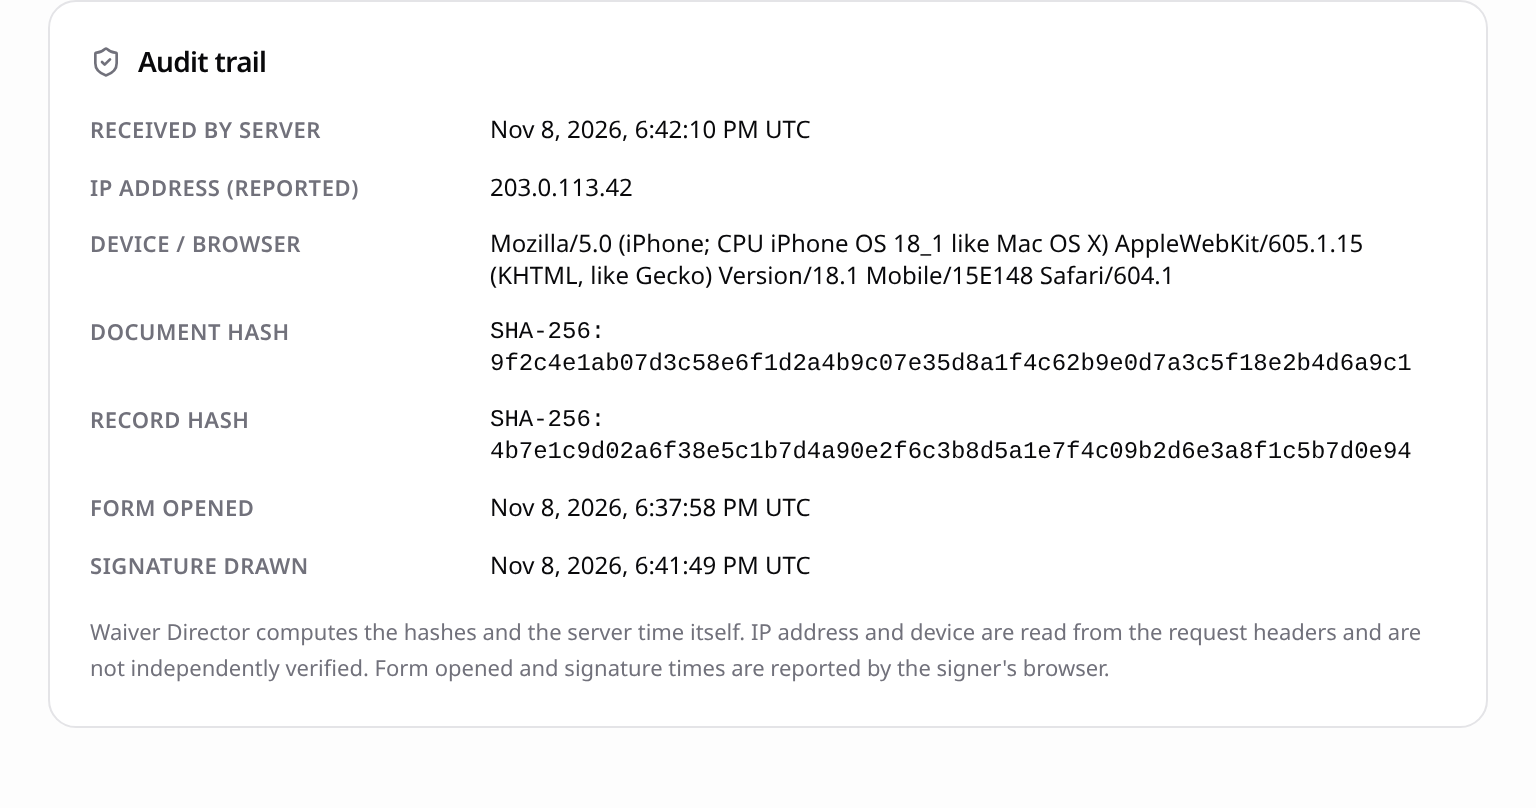
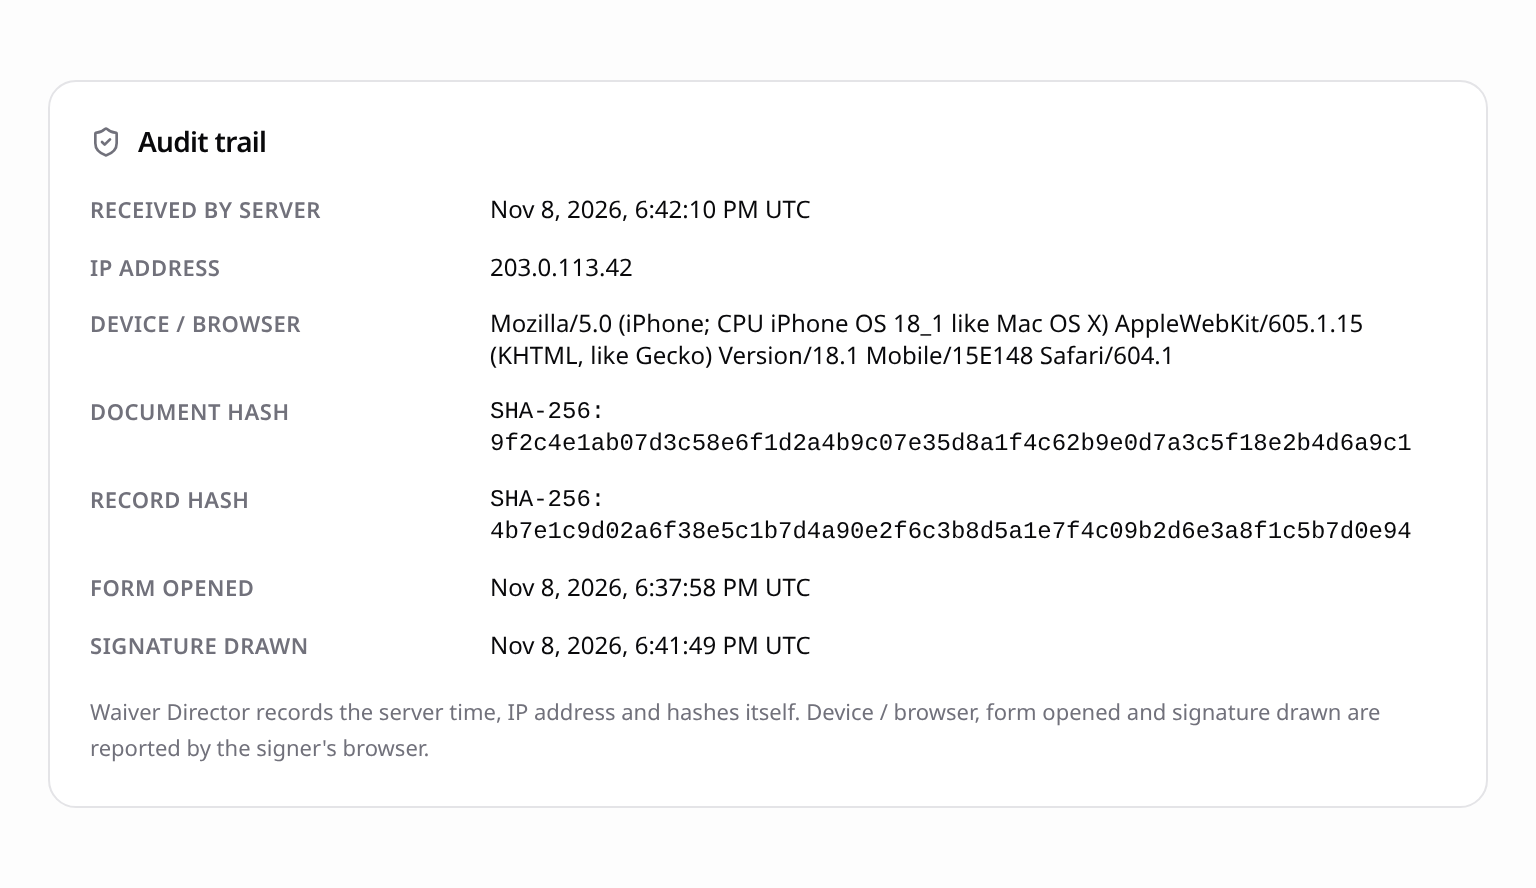
fix: show the IP address as server-recorded after spoof test
A request to the dev deployment with a spoofed X-Forwarded-For: 1.2.3.4
header was stored with the caller's real IP, so Convex's edge appends the
address it saw and the last hop cannot be faked by the signer. Drop the
'(reported)' label and update the panel note and docs.

Claude-Session: https://claude.ai/code/session_01NtaqKrbvdA3EqcTHo4cfhu

diff --git a/src/convex/lib/audit.ts b/src/convex/lib/audit.ts
@@ -99,13 +99,13 @@ export function normalizeForwardedFor(value: string | null | undefined): string 
 }
 
 /**
- * Best-effort client IP from request headers: the last `x-forwarded-for` hop,
- * which is the address appended by the nearest proxy. Earlier hops, and headers
- * such as `x-real-ip`, can be set by the client and are ignored.
+ * Client IP from the last `x-forwarded-for` hop, which Convex's HTTP edge
+ * appends with the address it saw. Earlier hops, and headers such as
+ * `x-real-ip`, can be set by the client and are ignored. The raw chain is
+ * stored separately.
  *
- * Convex does not document whether its HTTP edge sets or overwrites
- * `x-forwarded-for`, so this value is stored and shown as reported by request
- * headers, not as independently verified. The raw chain is stored separately.
+ * Verified on a dev deployment (2026-11-09): a request sent with a spoofed
+ * `X-Forwarded-For: 1.2.3.4` header was recorded with the caller's real IP.
  */
 export function clientIpFromHeaders(headers: { get(name: string): string | null }): string | null {
 	const forwardedFor = headers.get('x-forwarded-for');

diff --git a/src/lib/components/waivers/SubmissionAuditTrail.svelte b/src/lib/components/waivers/SubmissionAuditTrail.svelte
@@ -45,7 +45,7 @@
 				<dt class={rowLabelClass}>Received by server</dt>
 				<dd class={rowValueClass}>{formatTimestamp(audit.receivedAt)}</dd>
 
-				<dt class={rowLabelClass}>IP address (reported)</dt>
+				<dt class={rowLabelClass}>IP address</dt>
 				<dd class={rowValueClass}>{audit.ipAddress ?? 'Not recorded'}</dd>
 
 				{#if audit.forwardedFor && audit.forwardedFor !== audit.ipAddress}
@@ -73,9 +73,8 @@
 				<dd class={rowValueClass}>{formatTimestamp(audit.clientSignatureCompletedAt)}</dd>
 			</dl>
 			<p class="mt-4 text-[11px] leading-relaxed text-muted-foreground">
-				Waiver Director computes the hashes and the server time itself. IP address and device are
-				read from the request headers and are not independently verified. Form opened and signature
-				times are reported by the signer's browser.
+				Waiver Director records the server time, IP address and hashes itself. Device / browser,
+				form opened and signature drawn are reported by the signer's browser.
 			</p>
 		{/if}
 	</div>
